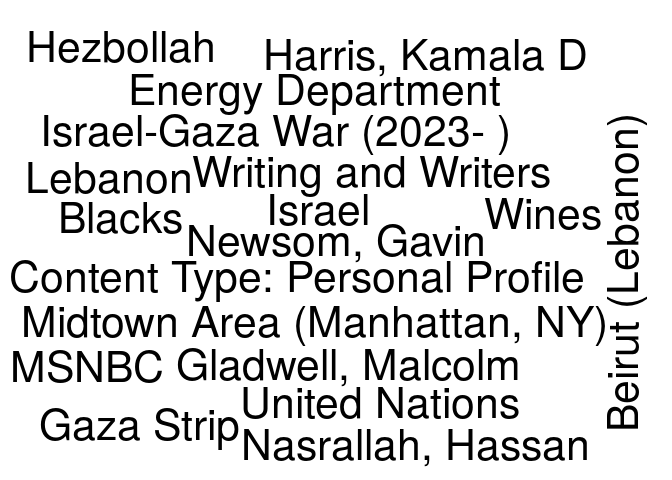
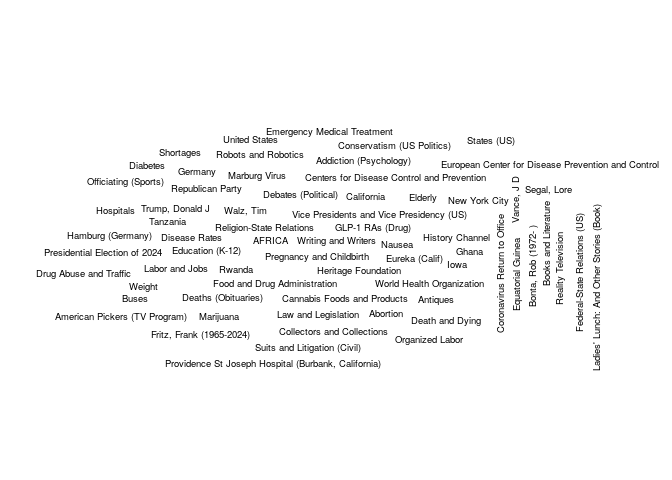
Updating the NYT report

Changed region(s): [[0.0, 0.0625, 0.9688, 0.9688]]

diff --git a/03-nytimes/README.md b/03-nytimes/README.md
@@ -5,7 +5,7 @@ The following is an example of how to use the [NYTimes
 API](https://developer.nytimes.com/) to get a list of articles related
 to a particular term. Here we are searching articles that include the
 term `"health"`, and that were published up to seven days ago since
-2024-09-30.
+2024-10-07.
 
 ``` r
 # Preparing a function to use the GET method with the NYTimes API
@@ -83,25 +83,25 @@ colnames(tab) <- c("Keyword", "# Articles")
 knitr::kable(tab, row.names = FALSE)
 ```
 
-| Keyword                                        | \# Articles |
-|:-----------------------------------------------|------------:|
-| Adams, Eric L                                  |           5 |
-| Banks, David C (1962- )                        |           5 |
-| Beirut (Lebanon)                               |           5 |
-| Black People                                   |           5 |
-| Blacks                                         |           5 |
-| Books and Literature                           |           5 |
-| Caban, Edward (1967- )                         |           5 |
-| California                                     |           5 |
-| Content Type: Personal Profile                 |           5 |
-| Corruption (Institutional)                     |           5 |
-| Demonstrations, Protests and Riots             |           5 |
-| Energy Department                              |           5 |
-| Eric Adams Federal Corruption Case (24 CR 556) |           5 |
-| Ethics and Official Misconduct                 |           5 |
-| Gaza Strip                                     |           5 |
-| General Assembly (UN)                          |           5 |
-| Generation Z                                   |           5 |
-| Gladwell, Malcolm                              |           5 |
-| Global Warming                                 |           5 |
-| Greenhouse Gas Emissions                       |           5 |
+| Keyword                                    | \# Articles |
+|:-------------------------------------------|------------:|
+| Content Type: Personal Profile             |          10 |
+| internal-storyline-no                      |          10 |
+| Abortion                                   |           5 |
+| Addiction (Psychology)                     |           5 |
+| AFRICA                                     |           5 |
+| American Pickers (TV Program)              |           5 |
+| Antiques                                   |           5 |
+| Bonta, Rob (1972- )                        |           5 |
+| Books and Literature                       |           5 |
+| Buses                                      |           5 |
+| California                                 |           5 |
+| Cannabis Foods and Products                |           5 |
+| Centers for Disease Control and Prevention |           5 |
+| Collectors and Collections                 |           5 |
+| Conservatism (US Politics)                 |           5 |
+| Coronavirus Return to Office               |           5 |
+| Death and Dying                            |           5 |
+| Deaths (Obituaries)                        |           5 |
+| Debates (Political)                        |           5 |
+| Diabetes                                   |           5 |
